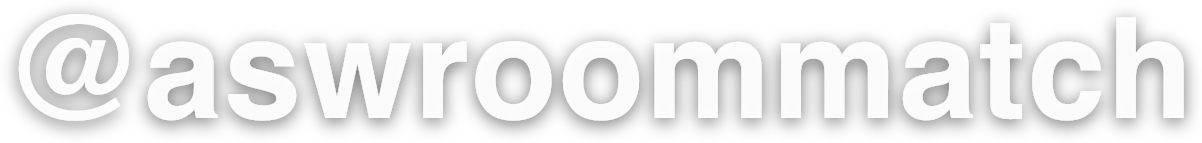
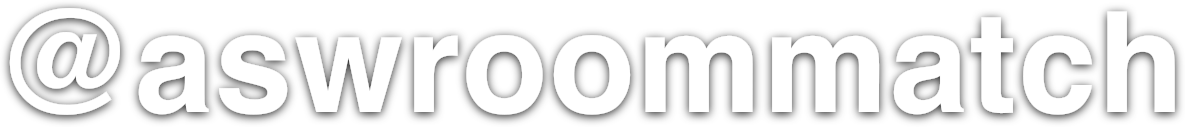
feat(images): tile the watermark diagonally instead of one corner mark
A corner mark is one crop away from gone, which defeats the point of having one.
The handle now repeats diagonally across the whole frame, so removing it means
damaging the photo.

Sized at 16% of width, staggered brick layout, 20 deg off-axis, 22% opacity —
enough to read in a screenshot, light enough to still see the room. The tile
pitch has a floor of 2x the rotated mark: the staggered copy sits at half the
tile, so a tighter pitch pushes it off the canvas and sharp throws. Denser
coverage comes from a smaller mark, not a tighter pitch.

The asset stays full-opacity and is toned at runtime via a dest-in alpha
multiply, so tuning visibility is a constant here rather than a regenerated and
re-committed PNG.

The backfill needed --force to go with this: photos marked with the old corner
style are already backed up, so a plain re-run skips them forever. --force always
re-derives from the pristine original rather than the file on disk, which is what
stops a second pattern stacking on the first.

Verified: on-disk output after --force is byte-identical to a single watermark
pass, and the backup is untouched by it.

diff --git a/src/services/watermark.service.js b/src/services/watermark.service.js
@@ -8,6 +8,11 @@
 // Applied at upload, which means it reaches every consumer of a photo at once:
 // the web app, the LINE Flex carousels, and anything shared onward from either.
 //
+// TILED diagonally across the frame rather than sat in one corner. A corner mark
+// is one crop away from gone, which defeats the point. Tiling costs some of the
+// photo's clarity, so the alpha is kept low enough to read the room through it —
+// the mark only has to be legible in a screenshot, not dominant.
+//
 // The mark itself is a pre-rendered PNG (see scripts/build-watermark.js) —
 // runtime text rendering would need fonts we can't count on in the container.
 
@@ -18,31 +23,72 @@ import { logger } from '../logger.js'
 
 const MARK_PATH = path.join(path.dirname(fileURLToPath(import.meta.url)), '..', 'assets', 'watermark.png')
 
-// Share of the photo's width the mark spans. ~26% reads clearly on a phone
-// without covering the room — the thing people are actually here to look at.
-const WIDTH_RATIO = 0.26
-const MIN_WIDTH   = 90     // below this the handle is an illegible smudge
-const MARGIN_RATIO = 0.03
+const ANGLE       = -30    // degrees; diagonal reads as a watermark, not as a caption
+const WIDTH_RATIO = 0.16   // one mark spans ~16% of the photo width
+const OPACITY     = 0.22   // visible in a screenshot, still see-through
+// Tile pitch, in multiples of the rotated mark. Must stay >= 2: the staggered
+// copy sits at half the tile, so anything tighter pushes it past the canvas edge
+// and sharp throws. Denser coverage comes from a smaller WIDTH_RATIO instead.
+const GAP_X       = 2.1
+const GAP_Y       = 2.3
 
-// Photos smaller than this are thumbnails/avatars — marking them just defaces
-// them, and they're too small to be worth stealing.
+// Below this a tiled pattern is just noise over something too small to steal.
 const MIN_PHOTO_WIDTH = 320
 
-// The resized mark is reused across uploads of the same width, which is the
-// common case (everything is capped to 1200px wide).
-const cache = new Map()
+// Building a tile means rotate + composite + alpha-scale, so it is cached per
+// photo width. Uploads are all capped to 1200px, so this is near-always a hit.
+const tileCache = new Map()
 
-async function markAtWidth(width) {
-  if (cache.has(width)) return cache.get(width)
-  const buf = await sharp(MARK_PATH).resize({ width }).png().toBuffer()
-  const { height } = await sharp(buf).metadata()
-  const entry = { buf, height }
-  cache.set(width, entry)
-  return entry
+/**
+ * A transparent tile carrying two offset copies of the mark, so tiling produces
+ * a staggered brick layout instead of a rigid grid (rigid grids read as a
+ * texture and are easier to inpaint out).
+ */
+async function buildTile(photoWidth) {
+  const cached = tileCache.get(photoWidth)
+  if (cached) return cached
+
+  const markWidth = Math.round(photoWidth * WIDTH_RATIO)
+  const rotated = await sharp(MARK_PATH)
+    .resize({ width: markWidth })
+    .rotate(ANGLE, { background: { r: 0, g: 0, b: 0, alpha: 0 } })
+    .png()
+    .toBuffer()
+  const rot = await sharp(rotated).metadata()
+
+  const tileW = Math.round(rot.width * GAP_X)
+  const tileH = Math.round(rot.height * GAP_Y)
+
+  const tile = await sharp({
+    create: { width: tileW, height: tileH, channels: 4, background: { r: 0, g: 0, b: 0, alpha: 0 } },
+  })
+    .composite([
+      { input: rotated, top: 0, left: 0 },
+      // Half-pitch offset — the stagger. GAP_* are >2 so this copy still fits.
+      { input: rotated, top: Math.round(tileH / 2), left: Math.round(tileW / 2) },
+    ])
+    .png()
+    .toBuffer()
+
+  // Scale the alpha down. `dest-in` multiplies the tile's alpha by the source's,
+  // so a flat translucent layer dims the whole thing uniformly — this is why the
+  // asset is stored at full opacity and toned here.
+  const faded = await sharp(tile)
+    .composite([{
+      input: Buffer.from([255, 255, 255, Math.round(255 * OPACITY)]),
+      raw: { width: 1, height: 1, channels: 4 },
+      tile: true,
+      blend: 'dest-in',
+    }])
+    .png()
+    .toBuffer()
+
+  tileCache.set(photoWidth, faded)
+  return faded
 }
 
 /**
- * Composite the handle into the bottom-right corner.
+ * Tile the handle across the photo.
  *
  * Returns the input unchanged on any failure. A watermark is worth less than an
  * upload: if sharp chokes on this particular file, the landlord should still get
@@ -57,20 +103,10 @@ export async function applyWatermark(buffer) {
     const { width, height } = await sharp(buffer).metadata()
     if (!width || !height || width < MIN_PHOTO_WIDTH) return buffer
 
-    const markWidth = Math.max(MIN_WIDTH, Math.round(width * WIDTH_RATIO))
-    const margin    = Math.round(width * MARGIN_RATIO)
-    const mark      = await markAtWidth(markWidth)
-
-    // Guard against a mark that can't fit (very wide-but-short panoramas):
-    // compositing outside the canvas throws and would cost us the upload.
-    if (markWidth + margin * 2 > width || mark.height + margin * 2 > height) return buffer
+    const tile = await buildTile(width)
 
     return await sharp(buffer)
-      .composite([{
-        input: mark.buf,
-        top:  height - mark.height - margin,
-        left: width - markWidth - margin,
-      }])
+      .composite([{ input: tile, tile: true, blend: 'over' }])
       .jpeg({ quality: 82, mozjpeg: true })
       .toBuffer()
   } catch (err) {

diff --git a/scripts/watermark-existing.js b/scripts/watermark-existing.js
@@ -3,6 +3,7 @@
 //
 //   node scripts/watermark-existing.js --dry-run   # report only, touch nothing
 //   node scripts/watermark-existing.js             # rewrite in place
+//   node scripts/watermark-existing.js --force     # redo after a style change
 //
 // Must run where the uploads volume is mounted (inside the Railway container,
 // via `railway ssh`) — `railway run` executes locally and would happily report
@@ -19,7 +20,11 @@ import path from 'node:path'
 import { UPLOADS_DIR } from '../src/config.js'
 import { applyWatermark } from '../src/services/watermark.service.js'
 
-const DRY = process.argv.includes('--dry-run')
+const DRY   = process.argv.includes('--dry-run')
+// Redo photos that were already marked — needed whenever the mark's style
+// changes. Safe because the work always starts from the pristine original, so
+// re-running can never stack a second mark on top of the first.
+const FORCE = process.argv.includes('--force')
 
 const ROOMS     = path.join(UPLOADS_DIR, 'rooms')
 const ORIGINALS = path.join(UPLOADS_DIR, 'originals', 'rooms')
@@ -46,10 +51,14 @@ for await (const file of walk(ROOMS)) {
   const rel    = path.relative(ROOMS, file)
   const backup = path.join(ORIGINALS, rel)
 
-  if (await exists(backup)) { stats.skipped++; continue }
+  const backedUp = await exists(backup)
+  if (backedUp && !FORCE) { stats.skipped++; continue }
 
   try {
-    const before = await fs.readFile(file)
+    // Always mark the PRISTINE image. Reading the on-disk file under --force
+    // would feed an already-marked photo back through and stack a second
+    // pattern on top of the first.
+    const before = await fs.readFile(backedUp ? backup : file)
     const after  = await applyWatermark(before)
 
     // applyWatermark returns the input untouched when it bails (too small,
@@ -61,8 +70,10 @@ for await (const file of walk(ROOMS)) {
     stats.bytesAfter  += after.length
 
     if (!DRY) {
-      await fs.mkdir(path.dirname(backup), { recursive: true })
-      await fs.writeFile(backup, before)   // backup first — never the other way round
+      if (!backedUp) {
+        await fs.mkdir(path.dirname(backup), { recursive: true })
+        await fs.writeFile(backup, before)   // backup first — never the other way round
+      }
       await fs.writeFile(file, after)
     }
     stats.done++

diff --git a/scripts/build-watermark.js b/scripts/build-watermark.js
@@ -18,19 +18,24 @@ import { fileURLToPath } from 'node:url'
 const HANDLE = '@aswroommatch'
 const OUT = path.join(path.dirname(fileURLToPath(import.meta.url)), '..', 'src', 'assets', 'watermark.png')
 
-// White text with a soft dark shadow: the shadow is what keeps it legible on
-// pale photos (white walls, bright windows), which is most listing shots.
+// Rendered at FULL opacity. The tiling step scales the alpha down at runtime,
+// which keeps "how visible is it" a one-line tweak in the service instead of a
+// reason to regenerate and re-commit this asset.
+//
+// The thin dark shadow is not decoration — tiled marks cross both white walls
+// and dark furniture in the same photo, and plain white text disappears against
+// the ceiling. The shadow is what makes one opacity work everywhere.
 const svg = `<svg xmlns="http://www.w3.org/2000/svg" width="1600" height="300">
   <defs>
     <filter id="sh" x="-25%" y="-25%" width="150%" height="150%">
-      <feDropShadow dx="0" dy="4" stdDeviation="9" flood-color="#000" flood-opacity="0.6"/>
+      <feDropShadow dx="0" dy="2" stdDeviation="5" flood-color="#000" flood-opacity="0.85"/>
     </filter>
   </defs>
   <text x="800" y="200"
         text-anchor="middle"
         font-family="Helvetica, Arial, 'DejaVu Sans', sans-serif"
         font-size="140" font-weight="700" letter-spacing="2"
-        fill="#ffffff" fill-opacity="0.92"
+        fill="#ffffff"
         filter="url(#sh)">${HANDLE}</text>
 </svg>`
 
